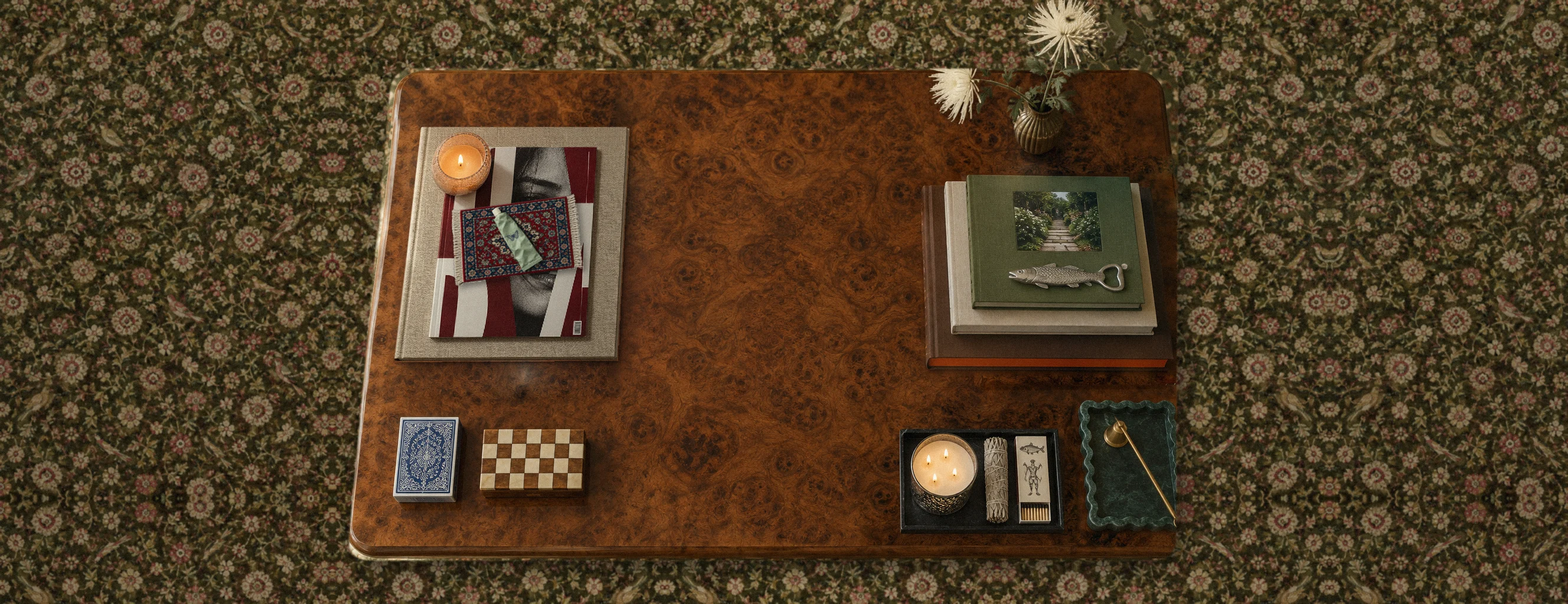
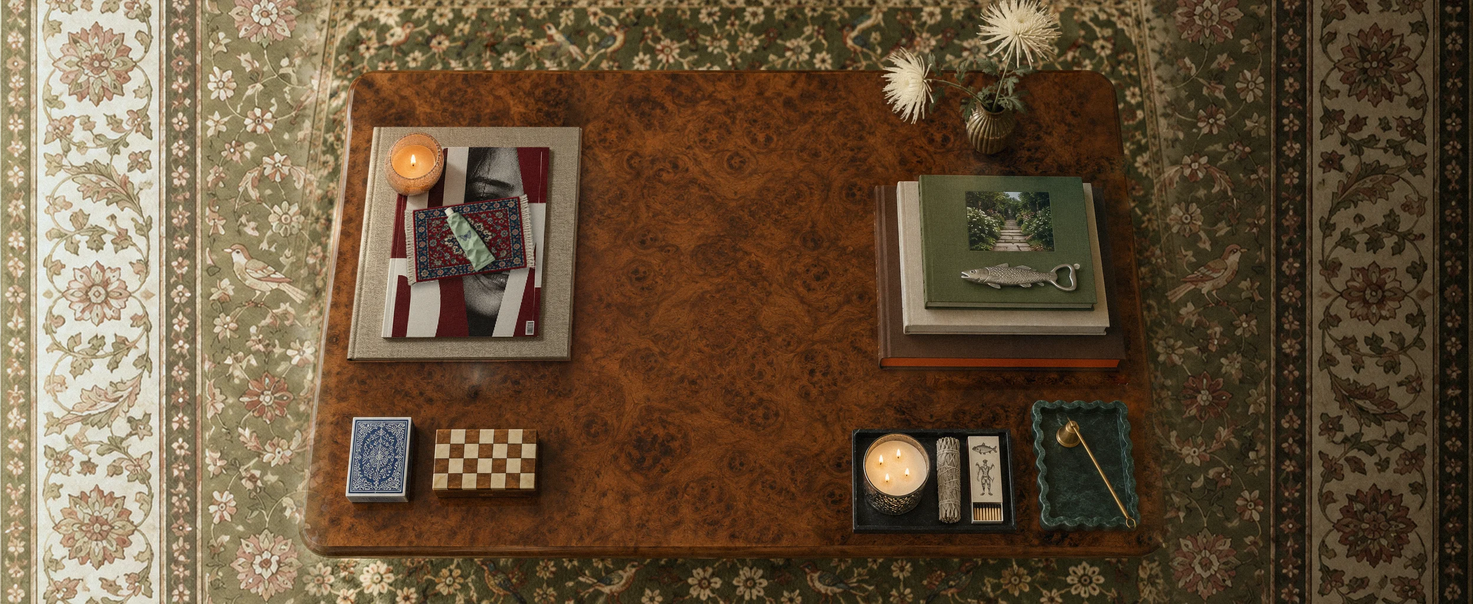
Coffee table: rug continues to the screen edges; single hand cream
Claude-Session: https://claude.ai/code/session_01K6tZz68frqumXcgpJJNVCT

diff --git a/index.html b/index.html
@@ -530,7 +530,7 @@ document.querySelectorAll('.igp').forEach(p=>{const v=p.querySelector('video'),d
  document.querySelector('.stage').addEventListener('click',e=>{ if(!document.body.classList.contains('is-open')) return; if(e.target.closest('.stf__block')||e.target.closest('a,button')) return; close(); });})();
 
 // keep the whole table visible: its bottom edge sits a little above the banner
-(function(){const IW=2656,IH=1024,TOP=0.112,BOT=0.915;
+(function(){const IW=2496,IH=1024,TOP=0.112,BOT=0.915;
  function f(){const el=document.getElementById('table');if(!el)return;const W=el.clientWidth,H=el.clientHeight;if(!W||!H)return;
   const gap=Math.max(18,H*0.03);
   // scale: cover by default, but never so big that the table can't fit between nav (54px) and the gap
